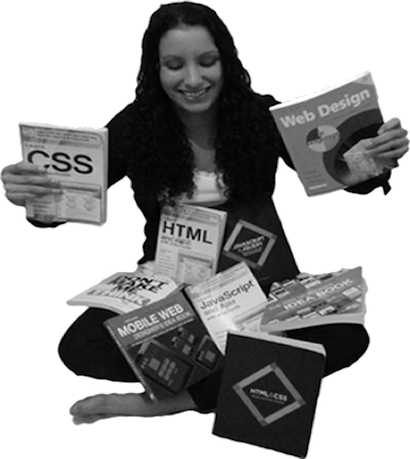
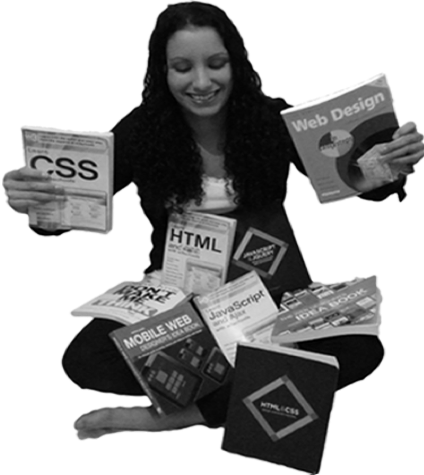
positioned and sized  my bio images using flexbox

diff --git a/index.html b/index.html
@@ -65,11 +65,11 @@
     <div class= "about_me_flex_container">
 
         <div class="bio_image bio_flex_item">
-            <img class="sizing_images1" src="mycss/images/bio_image.png">
+            <img class="sizing_images1 responsive" src="mycss/images/bio_image.png">
         </div>
 
-        <div class="bio_text bio_flex_item">
-            <img class="sizing_images2" src="mycss/images/pinned.png">
+        <div class="bio_text bio_flex_item" >
+            <img class="sizing_images2 responsive" src="mycss/images/pinned.png">
             <!--
 
             <h3>Hello there...</h3>

diff --git a/mycss/mainstyles.css b/mycss/mainstyles.css
@@ -142,17 +142,19 @@ nav ul li a:hover{
 
 .about_me_flex_container{
 	display:flex;
+	flex-direction:row;
+	flex-wrap:wrap;
 	
-	justify-content:center;
+	justify-content:space-around;
 	width: 100%;
+	margin-top: 65px;
+	margin-left:20px;
 
 }
 
 .bio_flex_item{
-	
-    width: 580px;
-    height: 560px;
-    margin: 10px;
+
+
 }
 
 
